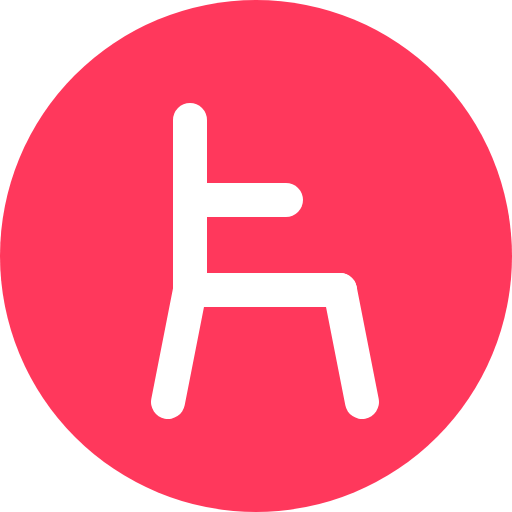
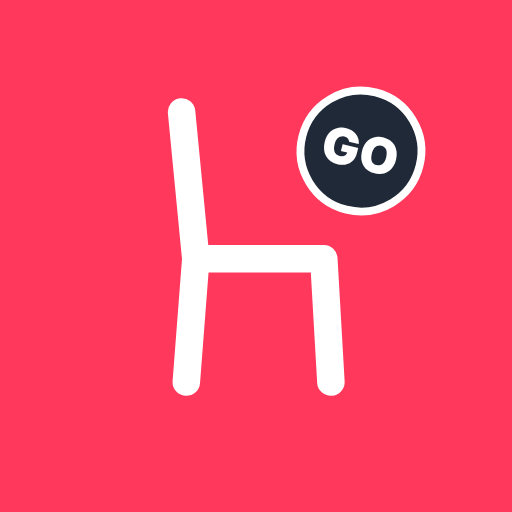
Add files via upload

diff --git a/js/app.js b/js/app.js
@@ -44,7 +44,7 @@
     root.innerHTML = `
     <main class="view no-nav" style="justify-content:space-between">
       <div class="stack" style="gap:26px">
-        <div class="brandmark"><span class="lg">${G.LOGO}</span><span><span class="c">Chair</span>Share Go</span></div>
+        ${G.lockup('lg')}
         <div class="stack">
           <h1 class="hero-t">Lo spazio quando ti serve, l'agenda sempre gratis.</h1>
           <p class="muted">Zero commissioni sui tuoi clienti. Accedi con il tuo account ChairShare da professionista.</p>
@@ -81,7 +81,7 @@
   }
 
   function vistaSoloFreelance() {
-    root.innerHTML = `<main class="view no-nav"><div class="brandmark"><span class="lg">${G.LOGO}</span><span><span class="c">Chair</span>Share Go</span></div>
+    root.innerHTML = `<main class="view no-nav">${G.lockup('lg')}
       <div class="card"><h1 class="h2">L'agenda è per i professionisti</h1>
       <p class="muted">Il tuo account è registrato come Host. Gestisci i tuoi spazi e le prenotazioni dal sito ChairShare.</p>
       <a class="btn primary" href="${esc(C.SITO_URL)}">Vai al sito</a>
@@ -233,9 +233,9 @@
     const giorno = giornata(t);
     const domani = G.addDays(t, 1), nDomani = appDi(domani).filter(a => a.status === 'confirmed').length;
     return `
-    <header class="head"><div class="stack" style="gap:2px"><span class="sub">${esc(G.dataLunga(t))}</span>
-      <h1 class="h1">Ciao ${esc(primoNome())}</h1></div>
-      <button type="button" class="pill-btn" data-act="condividi">${ic('share', 18)}Il tuo link</button></header>
+    <div class="row between">${G.lockup()}<button type="button" class="pill-btn" data-act="condividi">${ic('share', 18)}Il tuo link</button></div>
+    <header class="stack" style="gap:2px"><span class="sub muted small">${esc(G.dataLunga(t))}</span>
+      <h1 class="h1">Ciao ${esc(primoNome())}</h1></header>
     ${bannerRichieste()}
     ${cardPrimiPassi()}
     ${p ? `<section class="card raised" aria-label="Prossimo appuntamento">

diff --git a/js/util.js b/js/util.js
@@ -136,7 +136,12 @@
   function icon(n, size = 20, extra = '') {
     return `<svg width="${size}" height="${size}" viewBox="0 0 24 24" fill="none" stroke="currentColor" stroke-width="1.8" stroke-linecap="round" stroke-linejoin="round" aria-hidden="true" ${extra}>${I[n] || ''}</svg>`;
   }
-  const LOGO = '<svg viewBox="0 0 512 512" fill="none" stroke="#FFFFFF" stroke-width="40" stroke-linecap="round" stroke-linejoin="round" aria-hidden="true"><path d="M190 120v170h150M190 290l-22 112M340 290l22 112M190 200h96"/></svg>';
+  // Logo identico a quello del sito (cerchio corallo + sedia)
+  const LOGO = '<svg class="logo-c" viewBox="0 0 1080 1080" aria-hidden="true"><circle cx="540" cy="540" r="540" fill="#FF385C"/><g transform="translate(0 4)"><path d="M383 232 L413 542 L683 542 M413 542 L393 802 M683 542 L698 802" fill="none" stroke="#fff" stroke-width="58" stroke-linecap="round" stroke-linejoin="round"/></g></svg>';
+  // Logo + scritta del sito + etichetta GO (proposta A)
+  function lockup(taglia) {
+    return `<span class="lockup ${taglia || ''}" role="img" aria-label="ChairShare Go">${LOGO}<span class="wm">Chair<span>Share</span></span><span class="go">GO</span></span>`;
+  }
 
   // Bottom sheet (finestra dal basso) riutilizzabile
   function sheet(titolo, html, onMount) {
@@ -195,6 +200,6 @@
   window.GO = {
     oggi, oraMinuti, addDays, giorniTra, PREAVVISI, prenotabile, testoPreavviso, giorno, giornoBreve, numero, dataLunga, dataMedia, lunediDi, dow,
     min, hhmm, ora, esc, euro, durata, iniziali, nomeBreve, waLink, mapsLink, errore, mancaNelDb,
-    toast, icon, LOGO, sheet, chiudiSheet, icsLink, installata, iOS, installa, puoInstallare, registraSW
+    toast, icon, LOGO, lockup, sheet, chiudiSheet, icsLink, installata, iOS, installa, puoInstallare, registraSW
   };
 })();

diff --git a/css/app.css b/css/app.css
@@ -199,6 +199,18 @@ img { max-width: 100%; }
 .toast { position: fixed; left: 50%; bottom: calc(var(--nav-h) + 24px + env(safe-area-inset-bottom)); transform: translate(-50%, 20px); opacity: 0; z-index: 60; background: var(--ink); color: #fff; padding: 12px 18px; border-radius: 12px; font-size: 14px; font-weight: 500; transition: all .2s; pointer-events: none; max-width: calc(100% - 40px); text-align: center; }
 .toast.show { opacity: 1; transform: translate(-50%, 0); }
 
+/* Logo: identico al sito + etichetta GO */
+.lockup { display: inline-flex; align-items: center; gap: 8px; }
+.lockup .logo-c { width: 30px; height: 30px; flex-shrink: 0; border-radius: 50%; box-shadow: 0 2px 6px rgba(0, 0, 0, .12); }
+.lockup .wm { font-size: 17px; font-weight: 800; letter-spacing: -.02em; color: var(--coral); }
+.lockup .wm span { color: #1F2937; }
+.lockup .go { display: inline-flex; align-items: center; height: 20px; padding: 0 7px; border-radius: 6px; background: #1F2937; color: #fff; font-size: 11px; font-weight: 900; letter-spacing: .04em; }
+.lockup.lg { gap: 10px; }
+.lockup.lg .logo-c { width: 40px; height: 40px; }
+.lockup.lg .wm { font-size: 22px; }
+.lockup.lg .go { height: 26px; padding: 0 9px; border-radius: 8px; font-size: 14px; }
+.brandmini .logo-c { width: 20px; height: 20px; flex-shrink: 0; }
+
 /* Login / avvio */
 .brandmark { display: flex; align-items: center; gap: 10px; font-size: 18px; font-weight: 700; }
 .brandmark .lg { width: 36px; height: 36px; border-radius: 50%; background: var(--coral); display: flex; align-items: center; justify-content: center; }

diff --git a/js/go.js b/js/go.js
@@ -121,7 +121,7 @@
     const s = servizio(), g = s ? giorni(s).slice(0, 6) : [];
     document.title = `${P.name} · Prenota con ChairShare`;
     return `<main class="view no-nav">
-      <div class="brandmini"><span class="lg">${G.LOGO}</span>Prenotazioni con ChairShare</div>
+      <div class="brandmini">${G.LOGO}Prenotazioni con ChairShare</div>
       <header class="row" style="gap:14px"><span class="avatar lg" style="width:72px;height:72px" aria-hidden="true">${esc(G.iniziali(P.name))}</span>
         <div class="stack" style="gap:3px"><h1 class="h1" style="font-size:22px">${esc(P.name)}</h1>
         ${P.reviews_count ? `<span class="small">★ ${String(P.rating).replace('.', ',')} · ${P.reviews_count} recensioni</span>` : ''}</div></header>
@@ -303,7 +303,7 @@
     } catch (e) {
       console.error(e);
       const nessuno = /NESSUN_PROFILO/.test(e.message || '');
-      root.innerHTML = `<main class="view no-nav"><div class="brandmini"><span class="lg">${G.LOGO}</span>Prenotazioni con ChairShare</div>
+      root.innerHTML = `<main class="view no-nav"><div class="brandmini">${G.LOGO}Prenotazioni con ChairShare</div>
         <div class="empty">${nessuno ? 'Questa pagina non esiste o non è più attiva.' : esc(G.errore(e))}
         <a class="btn" href="${esc(C.SITO_URL)}">Vai a ChairShare</a></div></main>`;
     }

diff --git a/sw.js b/sw.js
@@ -1,8 +1,8 @@
 // Service worker di ChairShare Go: rende l'app installabile e apribile anche con rete debole.
 // Cambia VERSIONE a ogni pubblicazione per aggiornare i file in cache.
-const VERSIONE = 'go-v4';
+const VERSIONE = 'go-v5';
 const FILE = ['/', '/index.html', '/go.html', '/css/app.css', '/js/config.js', '/js/util.js', '/js/data.js',
-  '/js/app.js', '/js/go.js', '/manifest.webmanifest', '/icons/icon-192.png', '/icons/favicon.svg'];
+  '/js/app.js', '/js/go.js', '/manifest.webmanifest', '/icons/icon-192.png', '/icons/icon-512.png', '/icons/apple-touch-icon.png', '/icons/favicon.svg'];
 
 self.addEventListener('install', e => {
   e.waitUntil(caches.open(VERSIONE).then(c => c.addAll(FILE)).then(() => self.skipWaiting()));
